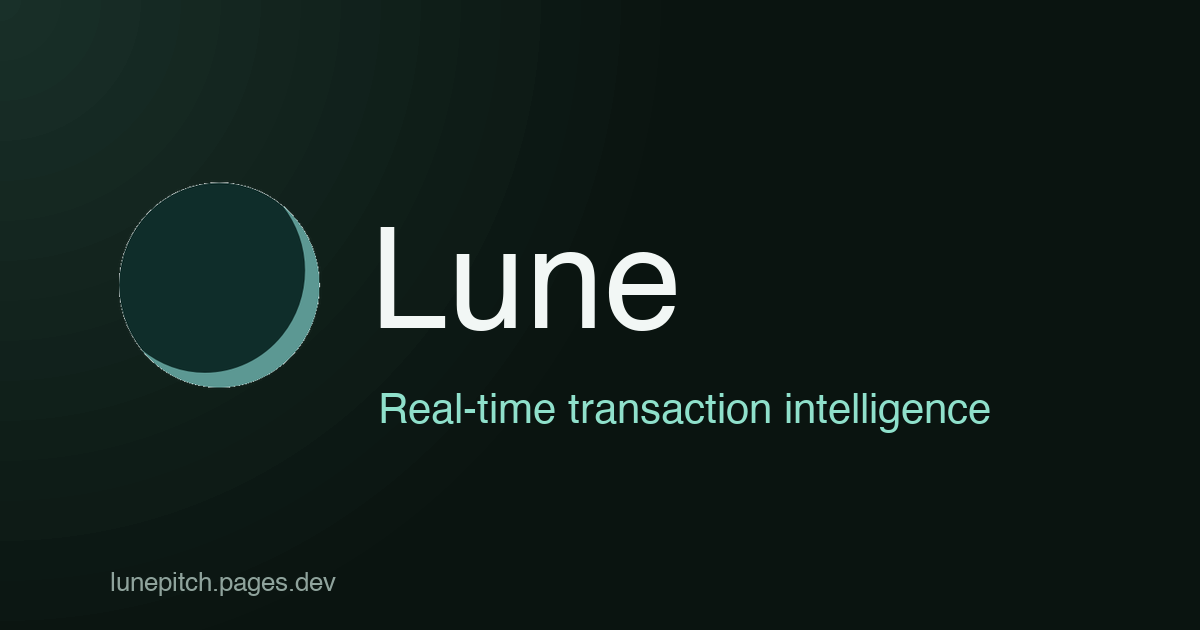
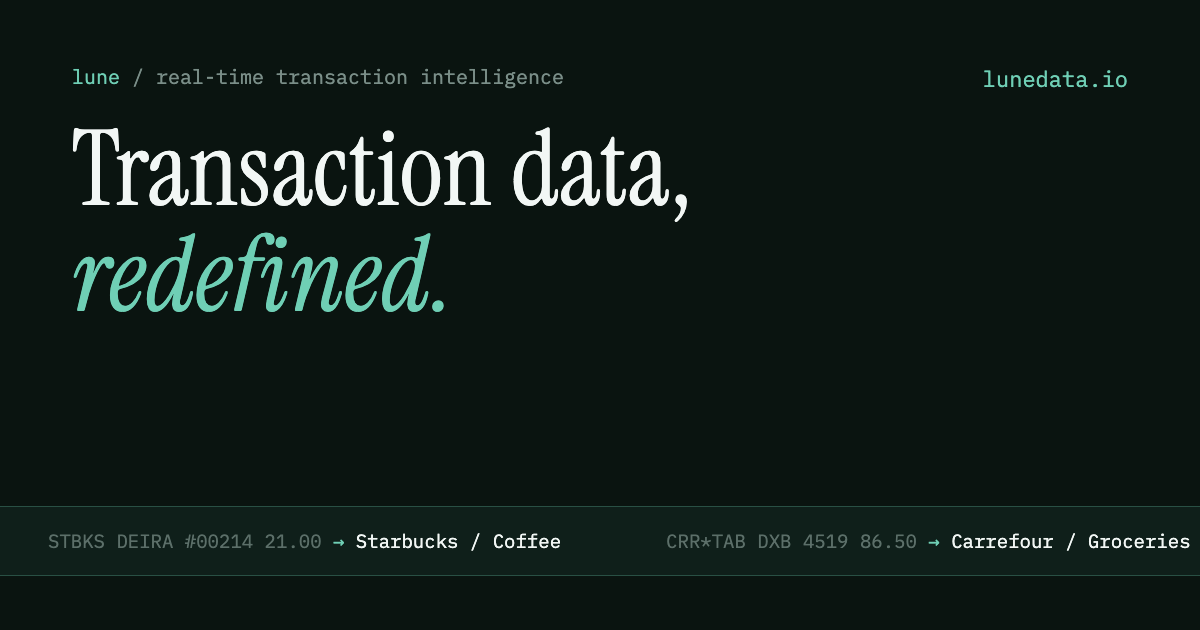
Audit pass 1: scanner, fonts, reduced-motion, a11y, new OG image
* static-scan.py taught to resolve clean URLs (/about -> about.html,
  trailing-dir indexes) so the link checker reflects how Cloudflare
  Pages actually serves the site. Sitemap check same. Scan is clean:
  0 a11y, 0 security, 0 links, 0 consistency.
* Font payload trimmed: Public Sans italic axis and Plex Mono 600
  were loaded but never used. Three families now ship exactly the
  weights the CSS references.
* Reduced-motion block updated for the new system: stale references
  to the deleted hero badge and counters removed, explicit ticker
  freeze added (the static first items stay readable).
* Nav current-page asterisk uses the CSS alternative-text syntax
  (content: '*' / '') so screen readers don't announce punctuation;
  aria-current carries the semantics.
* og-image.png regenerated in the new identity: serif headline with
  italic mint accent, mono kicker, and a raw-to-clean ticker strip
  along the bottom. The old card was Inter-on-glow.

diff --git a/assets/css/styles.css b/assets/css/styles.css
@@ -394,9 +394,11 @@ p { margin: 0 0 1rem; color: var(--text-muted); }
   min-height: 44px;
 }
 .nav-links a:hover, .nav-links a[aria-current="page"] { color: var(--text); }
-/* Current page marked with a mono asterisk, not an underline bar */
+/* Current page marked with a mono asterisk, not an underline bar.
+   The alternative-text syntax keeps screen readers from announcing
+   the glyph; aria-current already carries the semantics. */
 .nav-links a[aria-current="page"]::before {
-  content: '*';
+  content: '*' / '';
   color: var(--mint);
   margin-right: 0.45em;
 }
@@ -2247,23 +2249,15 @@ p { margin: 0 0 1rem; color: var(--text-muted); }
 .reveal.is-visible {
   opacity: 1;
 }
-.reveal[data-delay="1"],
-.reveal[data-delay="2"],
-.reveal[data-delay="3"],
-.reveal[data-delay="4"] { transition-delay: 0ms; }
-
 @media (prefers-reduced-motion: reduce) {
   /* Reveal animations: show immediately, no transform */
   .reveal { opacity: 1; transform: none; transition: none; }
   html { scroll-behavior: auto; }
-  /* Kill decorative continuous animations */
-  .hero-badge .dot { animation: none; }
+  /* The enrichment ticker holds still; the static first items remain visible */
+  .ticker-track { animation: none; }
   /* Disable button/link micro-transforms on hover */
-  .btn--primary:hover,
-  .product-card:hover,
   .industry-card:hover,
-  .engage-sub:hover,
-  .case-teaser:hover {
+  .engage-sub:hover {
     transform: none;
   }
   .btn--link:hover .arrow,

diff --git a/404.html b/404.html
@@ -21,7 +21,7 @@
 
   <link rel="preconnect" href="https://fonts.googleapis.com" />
   <link rel="preconnect" href="https://fonts.gstatic.com" crossorigin />
-  <link href="https://fonts.googleapis.com/css2?family=Instrument+Serif:ital@0;1&family=Public+Sans:ital,wght@0,400;0,500;0,600;0,700;1,400&family=IBM+Plex+Mono:wght@400;500;600&display=swap" rel="stylesheet" />
+  <link href="https://fonts.googleapis.com/css2?family=Instrument+Serif:ital@0;1&family=Public+Sans:wght@400;500;600;700&family=IBM+Plex+Mono:wght@400;500&display=swap" rel="stylesheet" />
   <link rel="stylesheet" href="assets/css/styles.css" />
 </head>
 <body>

diff --git a/about.html b/about.html
@@ -42,7 +42,7 @@
 
   <link rel="preconnect" href="https://fonts.googleapis.com" />
   <link rel="preconnect" href="https://fonts.gstatic.com" crossorigin />
-  <link href="https://fonts.googleapis.com/css2?family=Instrument+Serif:ital@0;1&family=Public+Sans:ital,wght@0,400;0,500;0,600;0,700;1,400&family=IBM+Plex+Mono:wght@400;500;600&display=swap" rel="stylesheet" />
+  <link href="https://fonts.googleapis.com/css2?family=Instrument+Serif:ital@0;1&family=Public+Sans:wght@400;500;600;700&family=IBM+Plex+Mono:wght@400;500&display=swap" rel="stylesheet" />
   <link rel="stylesheet" href="assets/css/styles.css" />
 </head>
 <body>

diff --git a/blog.html b/blog.html
@@ -42,7 +42,7 @@
 
   <link rel="preconnect" href="https://fonts.googleapis.com" />
   <link rel="preconnect" href="https://fonts.gstatic.com" crossorigin />
-  <link href="https://fonts.googleapis.com/css2?family=Instrument+Serif:ital@0;1&family=Public+Sans:ital,wght@0,400;0,500;0,600;0,700;1,400&family=IBM+Plex+Mono:wght@400;500;600&display=swap" rel="stylesheet" />
+  <link href="https://fonts.googleapis.com/css2?family=Instrument+Serif:ital@0;1&family=Public+Sans:wght@400;500;600;700&family=IBM+Plex+Mono:wght@400;500&display=swap" rel="stylesheet" />
   <link rel="stylesheet" href="assets/css/styles.css" />
 </head>
 <body>

diff --git a/careers.html b/careers.html
@@ -42,7 +42,7 @@
 
   <link rel="preconnect" href="https://fonts.googleapis.com" />
   <link rel="preconnect" href="https://fonts.gstatic.com" crossorigin />
-  <link href="https://fonts.googleapis.com/css2?family=Instrument+Serif:ital@0;1&family=Public+Sans:ital,wght@0,400;0,500;0,600;0,700;1,400&family=IBM+Plex+Mono:wght@400;500;600&display=swap" rel="stylesheet" />
+  <link href="https://fonts.googleapis.com/css2?family=Instrument+Serif:ital@0;1&family=Public+Sans:wght@400;500;600;700&family=IBM+Plex+Mono:wght@400;500&display=swap" rel="stylesheet" />
   <link rel="stylesheet" href="assets/css/styles.css" />
 </head>
 <body>

diff --git a/case-studies.html b/case-studies.html
@@ -42,7 +42,7 @@
 
   <link rel="preconnect" href="https://fonts.googleapis.com" />
   <link rel="preconnect" href="https://fonts.gstatic.com" crossorigin />
-  <link href="https://fonts.googleapis.com/css2?family=Instrument+Serif:ital@0;1&family=Public+Sans:ital,wght@0,400;0,500;0,600;0,700;1,400&family=IBM+Plex+Mono:wght@400;500;600&display=swap" rel="stylesheet" />
+  <link href="https://fonts.googleapis.com/css2?family=Instrument+Serif:ital@0;1&family=Public+Sans:wght@400;500;600;700&family=IBM+Plex+Mono:wght@400;500&display=swap" rel="stylesheet" />
   <link rel="stylesheet" href="assets/css/styles.css" />
 </head>
 <body>

diff --git a/contact.html b/contact.html
@@ -42,7 +42,7 @@
 
   <link rel="preconnect" href="https://fonts.googleapis.com" />
   <link rel="preconnect" href="https://fonts.gstatic.com" crossorigin />
-  <link href="https://fonts.googleapis.com/css2?family=Instrument+Serif:ital@0;1&family=Public+Sans:ital,wght@0,400;0,500;0,600;0,700;1,400&family=IBM+Plex+Mono:wght@400;500;600&display=swap" rel="stylesheet" />
+  <link href="https://fonts.googleapis.com/css2?family=Instrument+Serif:ital@0;1&family=Public+Sans:wght@400;500;600;700&family=IBM+Plex+Mono:wght@400;500&display=swap" rel="stylesheet" />
   <link rel="stylesheet" href="assets/css/styles.css" />
 
   <!-- Cloudflare Turnstile (bot protection on the contact form) -->

diff --git a/cookies.html b/cookies.html
@@ -42,7 +42,7 @@
 
   <link rel="preconnect" href="https://fonts.googleapis.com" />
   <link rel="preconnect" href="https://fonts.gstatic.com" crossorigin />
-  <link href="https://fonts.googleapis.com/css2?family=Instrument+Serif:ital@0;1&family=Public+Sans:ital,wght@0,400;0,500;0,600;0,700;1,400&family=IBM+Plex+Mono:wght@400;500;600&display=swap" rel="stylesheet" />
+  <link href="https://fonts.googleapis.com/css2?family=Instrument+Serif:ital@0;1&family=Public+Sans:wght@400;500;600;700&family=IBM+Plex+Mono:wght@400;500&display=swap" rel="stylesheet" />
   <link rel="stylesheet" href="assets/css/styles.css" />
 </head>
 <body>

diff --git a/docs/authentication.html b/docs/authentication.html
@@ -28,7 +28,7 @@
 
   <link rel="preconnect" href="https://fonts.googleapis.com" />
   <link rel="preconnect" href="https://fonts.gstatic.com" crossorigin />
-  <link href="https://fonts.googleapis.com/css2?family=Instrument+Serif:ital@0;1&family=Public+Sans:ital,wght@0,400;0,500;0,600;0,700;1,400&family=IBM+Plex+Mono:wght@400;500;600&display=swap" rel="stylesheet" />
+  <link href="https://fonts.googleapis.com/css2?family=Instrument+Serif:ital@0;1&family=Public+Sans:wght@400;500;600;700&family=IBM+Plex+Mono:wght@400;500&display=swap" rel="stylesheet" />
   <link rel="stylesheet" href="../assets/css/styles.css" />
 </head>
 <body>

diff --git a/docs/enrichment.html b/docs/enrichment.html
@@ -28,7 +28,7 @@
 
   <link rel="preconnect" href="https://fonts.googleapis.com" />
   <link rel="preconnect" href="https://fonts.gstatic.com" crossorigin />
-  <link href="https://fonts.googleapis.com/css2?family=Instrument+Serif:ital@0;1&family=Public+Sans:ital,wght@0,400;0,500;0,600;0,700;1,400&family=IBM+Plex+Mono:wght@400;500;600&display=swap" rel="stylesheet" />
+  <link href="https://fonts.googleapis.com/css2?family=Instrument+Serif:ital@0;1&family=Public+Sans:wght@400;500;600;700&family=IBM+Plex+Mono:wght@400;500&display=swap" rel="stylesheet" />
   <link rel="stylesheet" href="../assets/css/styles.css" />
 </head>
 <body>

diff --git a/docs/index.html b/docs/index.html
@@ -30,7 +30,7 @@
 
   <link rel="preconnect" href="https://fonts.googleapis.com" />
   <link rel="preconnect" href="https://fonts.gstatic.com" crossorigin />
-  <link href="https://fonts.googleapis.com/css2?family=Instrument+Serif:ital@0;1&family=Public+Sans:ital,wght@0,400;0,500;0,600;0,700;1,400&family=IBM+Plex+Mono:wght@400;500;600&display=swap" rel="stylesheet" />
+  <link href="https://fonts.googleapis.com/css2?family=Instrument+Serif:ital@0;1&family=Public+Sans:wght@400;500;600;700&family=IBM+Plex+Mono:wght@400;500&display=swap" rel="stylesheet" />
   <link rel="stylesheet" href="../assets/css/styles.css" />
 </head>
 <body>

diff --git a/docs/pfm-sdk.html b/docs/pfm-sdk.html
@@ -28,7 +28,7 @@
 
   <link rel="preconnect" href="https://fonts.googleapis.com" />
   <link rel="preconnect" href="https://fonts.gstatic.com" crossorigin />
-  <link href="https://fonts.googleapis.com/css2?family=Instrument+Serif:ital@0;1&family=Public+Sans:ital,wght@0,400;0,500;0,600;0,700;1,400&family=IBM+Plex+Mono:wght@400;500;600&display=swap" rel="stylesheet" />
+  <link href="https://fonts.googleapis.com/css2?family=Instrument+Serif:ital@0;1&family=Public+Sans:wght@400;500;600;700&family=IBM+Plex+Mono:wght@400;500&display=swap" rel="stylesheet" />
   <link rel="stylesheet" href="../assets/css/styles.css" />
 </head>
 <body>